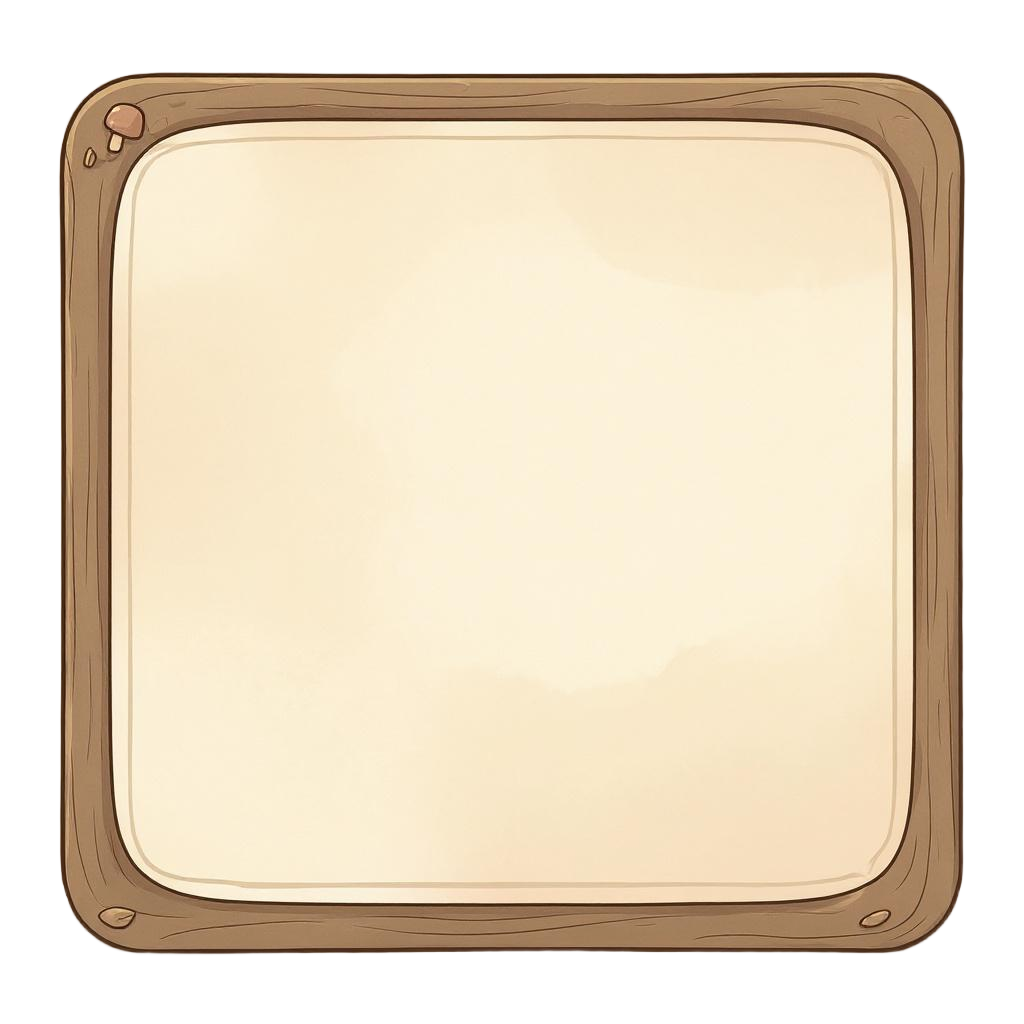
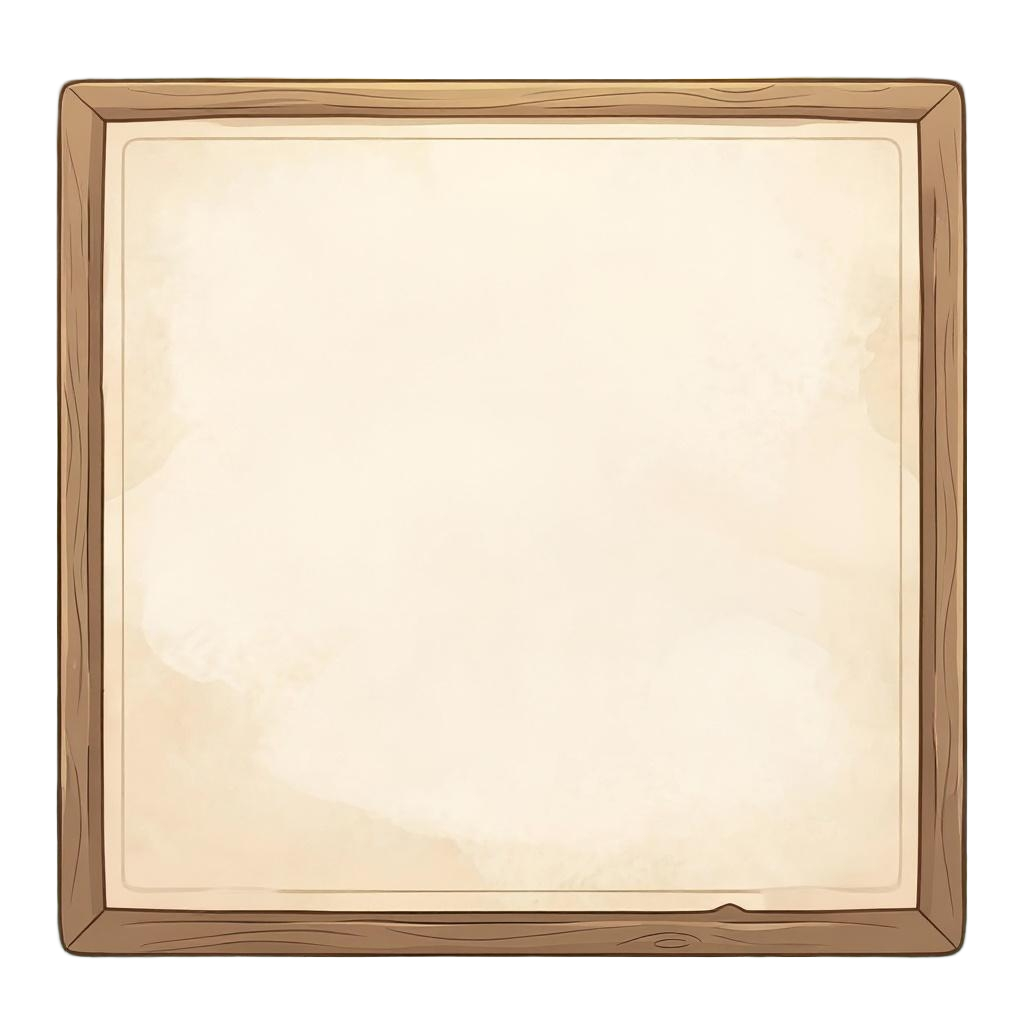
feat: 백보드 교체 + 왼쪽 귀퉁이 장식 교체 + 장식 1.75배 확대
에셋
- back_board.png — 새 그림으로 교체. 자르기·축소·변환 없이 원본 PNG 그대로(1024² 444KB)
- corner_tl.webp — 새 좌상 장식(잎 + 버섯 + 도토리). JPEG로 도착해 알파를 복원했다
- corner_bl.webp — 새 좌하 장식(잎 + 덩굴). PNG 원본 그대로
- 우상·우하(corner_tr/br)는 그대로 둔다 — 교체 요청이 없었다

장식 크기 1.75배
- --orn-size 72 → 126px (모바일 52 → 91px)

새 백보드의 여백은 네 변이 다르다
- 상 78 / 하 67 / 좌 57 / 우 56px (나무는 46~49px)
- 이전 그림은 한 값(73)으로 뭉뚱그려도 됐지만 이번엔 위아래 차이가 11px, 상하-좌우
  차이가 22px라 --board-margin 하나로는 액자가 한쪽으로 쏠린다.
  --board-mt/mr/mb/ml 네 값으로 나눠 ::before의 inset에 각각 준다
- public/ui/README.md에 "그림을 교체하면 이 네 숫자를 다시 재라"와 재는 법을 적었다

검증: 로비 실측 3뷰포트 × 6단계 문제 0건. 1920 화면과 좌상 모서리 확대로 정렬 확인.
NEXT_DIST_DIR=.next-verify로 빌드해 dev 서버를 건드리지 않았고 tsconfig.json은 되돌렸다.

diff --git a/client/app/globals.css b/client/app/globals.css
@@ -2348,27 +2348,32 @@ body {
      기본값 1이고, 아래 미디어쿼리에서 넓은 화면·접힌 상태에만 올린다. */
   zoom: var(--form-zoom, 1);
 
-  /* 액자 그림은 원본 PNG를 손대지 않고 쓴다. 그래서 바깥에 투명 여백(상 73 / 좌 61px,
-     1024² 기준)이 붙어 있고 나무는 그 안쪽 49~51px이다.
+  /* 액자 그림은 원본 PNG를 손대지 않고 쓴다. 그래서 바깥에 투명 여백이 붙어 있고
+     (1024² 기준 상 78 / 하 67 / 좌 57 / 우 56px) 나무는 그 안쪽 46~49px이다.
        --board-slice  그림에서 잘라낼 조각(여백 + 나무 + 둥근 모서리가 다 들어가는 크기)
        --board-edge   그 조각을 화면에 그릴 두께
-       --board-margin 그중 투명 여백이 차지하는 몫 — 이만큼 ::before를 **바깥으로** 밀어야
-                      나무가 카드 모서리에 딱 맞는다. 안 밀면 카드 안쪽에 빈 띠가 생기고
-                      귀퉁이 장식이 나무에서 그만큼 떨어져 뜬다. */
+     투명 여백의 몫만큼 ::before를 **바깥으로** 밀어야 나무가 카드 모서리에 딱 맞는다.
+     안 밀면 카드 안쪽에 빈 띠가 생기고 귀퉁이 장식이 나무에서 그만큼 떨어져 뜬다.
+     여백이 네 변에서 다르므로 inset도 네 값을 따로 준다 — 한 값으로 뭉뚱그리면
+     위쪽이 22px, 왼쪽이 16px씩 어긋나 액자가 한쪽으로 쏠린다.
+     **그림을 교체하면 이 네 숫자를 다시 재야 한다.** */
   --board-slice: 140;
   --board-edge: 40px;
-  --board-margin: calc(var(--board-edge) * 73 / 140);
+  --board-mt: calc(var(--board-edge) * 78 / 140);
+  --board-mr: calc(var(--board-edge) * 56 / 140);
+  --board-mb: calc(var(--board-edge) * 67 / 140);
+  --board-ml: calc(var(--board-edge) * 57 / 140);
 
   /* 귀퉁이 장식 — 액자 두께와 무관한 고정 크기라, 폼이 커져도 작아지지 않는다.
      ⚠ overhang은 반드시 .lobby-form-wrap의 padding보다 작아야 한다. 장식 레이어가
      액자 밖으로 걸치는 만큼 스크롤 영역이 넓어져, 넘치면 .stage-form에 스크롤바가
      생긴다(16px로 뒀다가 390×844에서 실제로 겪었다). */
-  --orn-size: 72px;
+  --orn-size: 126px;   /* 72px에서 1.75배 */
   --orn-overhang: 10px;
   position: relative;
   isolation: isolate;
   /* 나무 두께(조각의 49/140)만큼 지나온 뒤 양피지 안쪽 여백을 더한다 */
-  padding: calc(var(--board-edge) * 49 / 140 + 16px);
+  padding: calc(var(--board-edge) * 47 / 140 + 16px);
   max-width: 28rem;
   display: flex;
   flex-direction: column;
@@ -2379,7 +2384,9 @@ body {
 .lobby-form-board::before {
   content: '';
   position: absolute;
-  inset: calc(var(--board-margin) * -1);   /* 투명 여백만큼 바깥으로 */
+  /* 투명 여백만큼 바깥으로 — 네 변이 다르다 */
+  inset: calc(var(--board-mt) * -1) calc(var(--board-mr) * -1)
+         calc(var(--board-mb) * -1) calc(var(--board-ml) * -1);
   z-index: -2;
   border: var(--board-edge) solid transparent;
   border-image: var(--form-board) var(--board-slice) fill stretch;
@@ -2481,7 +2488,7 @@ body {
 @media (max-width: 767px) {
   .lobby-form-board {
     --board-edge: 20px;
-    --orn-size: 52px;
+    --orn-size: 91px;    /* 52px에서 1.75배 */
     --orn-overhang: 4px;   /* 바깥 여백 0.5rem(≈6.4px)보다 작아야 한다 */
   }
   .lobby-form-wrap { padding: 0.5rem; }

diff --git a/client/lib/lobbyAssets.ts b/client/lib/lobbyAssets.ts
@@ -39,8 +39,8 @@ export const LOBBY_ASSETS = {
    */
   /* 원본 PNG를 **손대지 않고** 그대로 쓴다 — 자르기·축소·장식선 제거 모두 하지 않았다.
      알파가 살아 있는 상태로 도착해 복원 처리도 필요 없었다. 투명 여백(상 73 / 좌 61px)이
-     포함돼 있어, globals.css가 그만큼 액자 레이어를 바깥으로 밀어 나무가 카드 모서리에
-     맞도록 한다(--board-margin). */
+     포함돼 있어(네 변이 다르다), globals.css가 그만큼 액자 레이어를 바깥으로 밀어 나무가
+     카드 모서리에 맞도록 한다(--board-mt/mr/mb/ml). */
   formBoard: '/ui/back_board.png',
   cornerTL: '/ui/corner_tl.webp',
   cornerTR: '/ui/corner_tr.webp',

diff --git a/client/public/ui/README.md b/client/public/ui/README.md
@@ -5,7 +5,7 @@
 
 | 파일 | 크기 | 용도 |
 | --- | --- | --- |
-| `back_board.png` | 1024×1024 / 416KB | 폼(혼자 놀기·방 만들기·방 참가하기) 뒤 나무 액자 |
+| `back_board.png` | 1024×1024 / 444KB | 폼(혼자 놀기·방 만들기·방 참가하기) 뒤 나무 액자 |
 | `corner_tl.webp` | 256² / 19KB | 좌상 귀퉁이 장식 — 잎 + 버섯 |
 | `corner_tr.webp` | 256² / 16KB | 우상 귀퉁이 장식 — 잎 + 도토리 |
 | `corner_bl.webp` | 256² / 19KB | 좌하 귀퉁이 장식 — 잎 덩굴 |
@@ -40,15 +40,21 @@
 도착해 복원 처리조차 필요 없었다. 그래서 그림에는 바깥 **투명 여백**(상 73 / 좌 61px)과
 양피지 안쪽 **장식선**(y≈136)이 그대로 남아 있다.
 
-투명 여백은 `--board-margin`으로 처리한다 — 그만큼 `::before`를 **바깥으로 밀어야**
+투명 여백은 `--board-mt/mr/mb/ml`로 처리한다 — 그만큼 `::before`를 **바깥으로 밀어야**
 나무가 카드 모서리에 딱 맞는다. 안 밀면 카드 안쪽에 빈 띠가 생기고 귀퉁이 장식이
 나무에서 떨어져 뜬다.
 
+**여백이 네 변에서 다르므로 네 값을 따로 준다.** 한 값으로 뭉뚱그리면 위쪽이 22px,
+왼쪽이 16px씩 어긋나 액자가 한쪽으로 쏠린다.
+
 ```css
---board-slice: 140;                                   /* 여백 + 나무 + 둥근 모서리 */
---board-edge: 40px;                                   /* 화면에 그릴 두께 */
---board-margin: calc(var(--board-edge) * 73 / 140);   /* 그중 투명 여백의 몫 */
+--board-slice: 140;                              /* 여백 + 나무 + 둥근 모서리 */
+--board-edge: 40px;                              /* 화면에 그릴 두께 */
+--board-mt: calc(var(--board-edge) * 78 / 140);  /* 상 78 · 하 67 · 좌 57 · 우 56px */
 ```
+
+**그림을 교체하면 이 네 숫자를 다시 재야 한다.** 재는 법 — 각 변의 가운데에서
+① 알파가 처음 40을 넘는 곳(= 여백 끝) ② 처음 양피지 색이 나오는 곳(= 나무 끝).
 
 ## 슬라이스는 필요 이상으로 키우지 말 것
 
